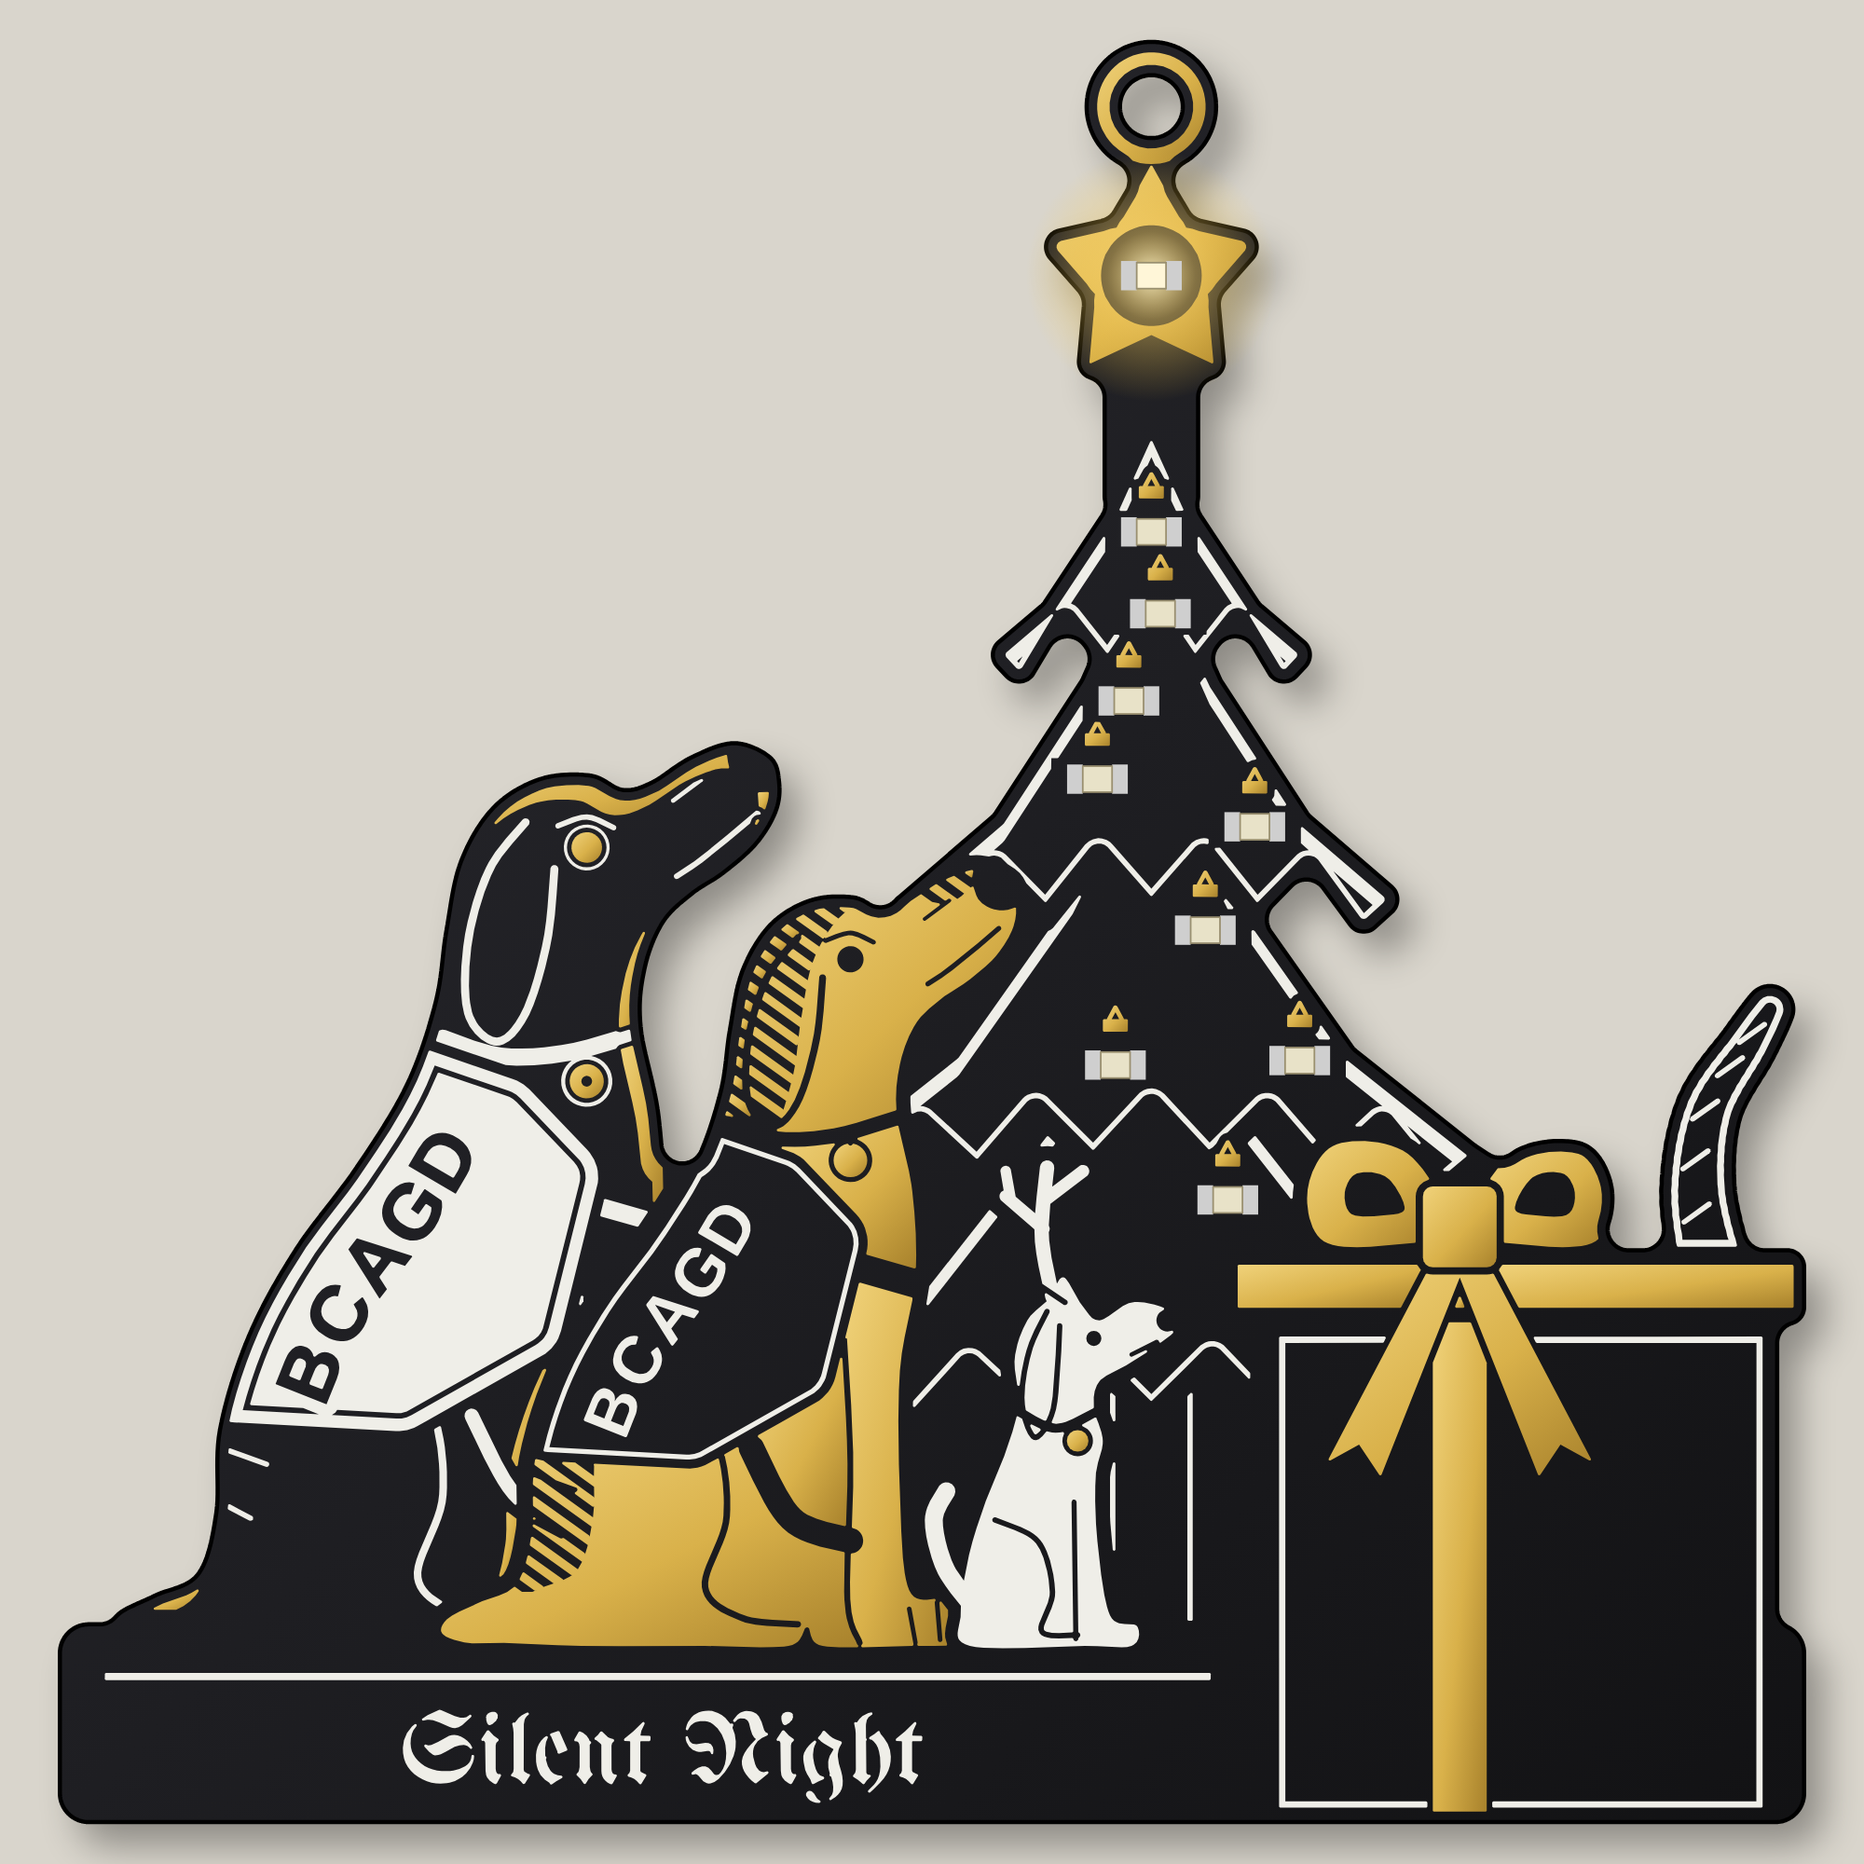
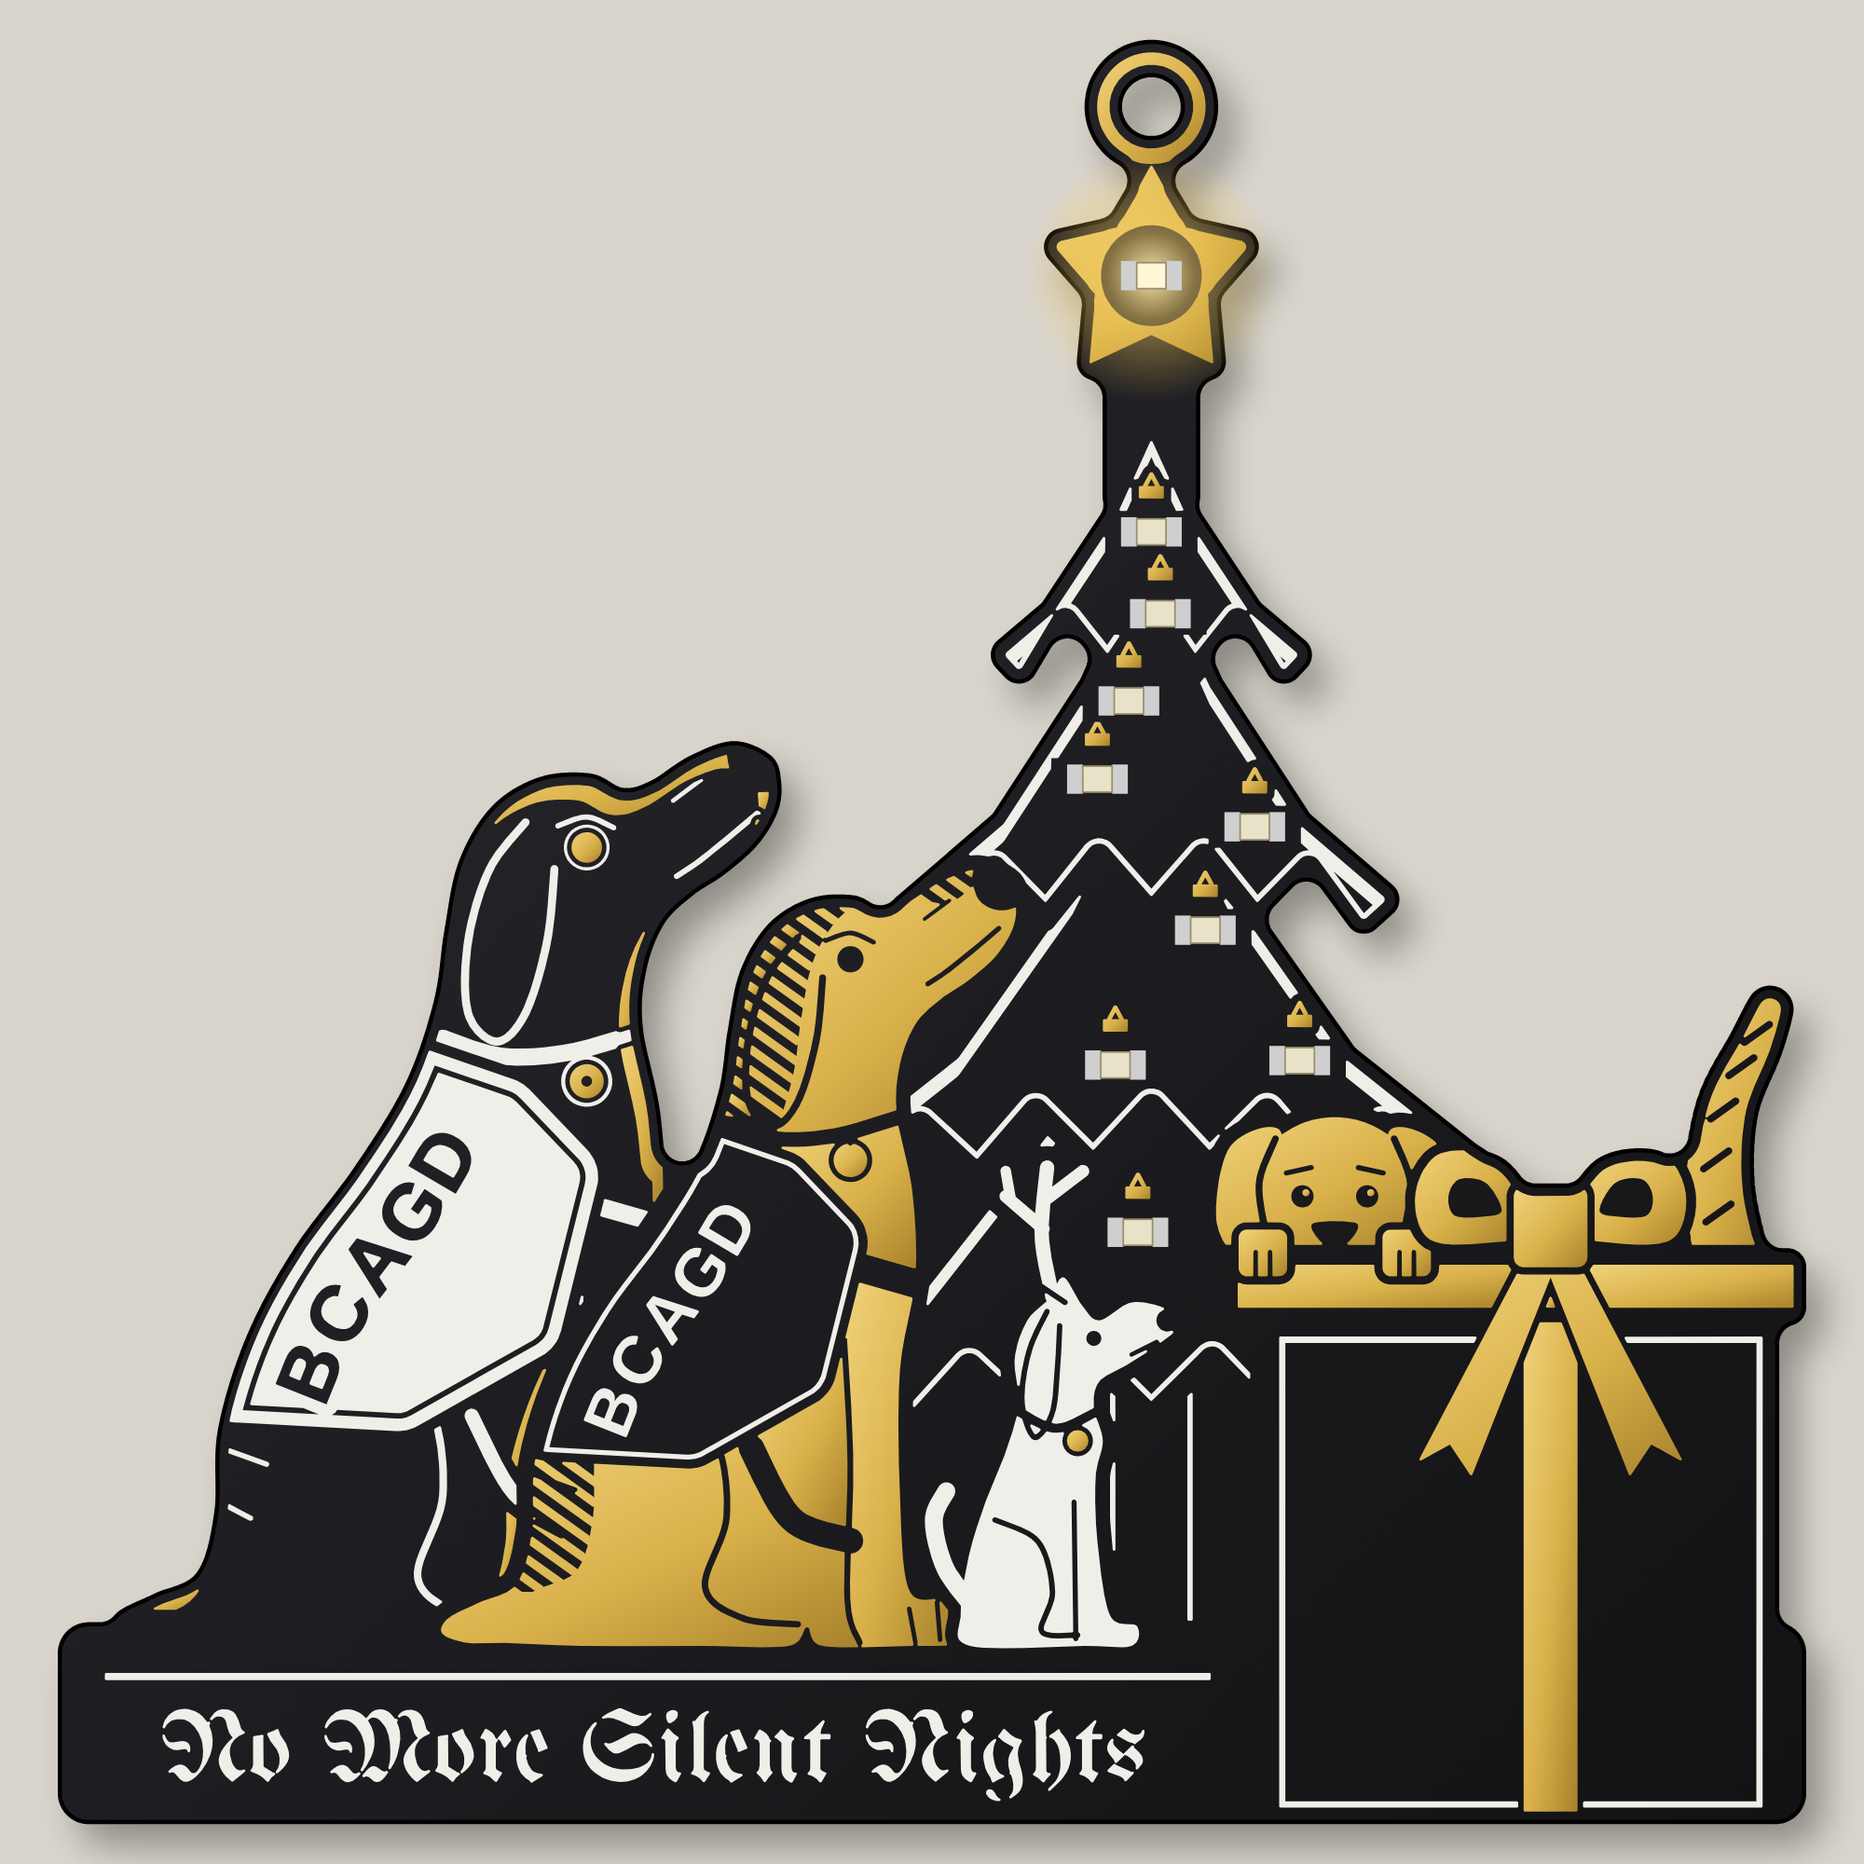
Add a puppy peeking over the present lid and the new caption
The caption now reads No More Silent Nights. The puppy's head, paws
and tail are gold. D1 moves to clear the puppy's head.

Claude-Session: https://claude.ai/code/session_01LWeVxTjGJUc5PEY3V1Ku58

Changed region(s): [[0.589, 0.527, 0.961, 0.992], [0.093, 0.899, 0.62, 0.961]]

diff --git a/pcb-art/labrador-ornament/source/build_ornament.py b/pcb-art/labrador-ornament/source/build_ornament.py
@@ -307,16 +307,24 @@ wdark = unary_union([
 # ---- wrapped present, bottom right: the CR2032 holder sits behind it on the back as the counterweight
 PX0, PX1, PY0 = 68.5, 97.0, 71.0      # 24.5 x 24.5 mm at final size, room for an SMD CR2032 holder
 BAT_C = ((PX0 + PX1) / 2, 86.0)
-BX, KY = BAT_C[0] - 3.4, PY0 - 4.6          # bow knot
-def _loop(sg, k=0.9):
+BX, KY = 84.4, PY0 - 4.6          # bow knot
+def _loop(sg, k=0.8):
     return smooth_poly([(BX + sg * k * x, KY + k * y) for x, y in [(0.6, 0.2), (3.2, -4.4), (7.6, -5.0), (9.4, -2.2), (8.4, 1.0), (4.0, 1.2)]])
 bow_loops = unary_union([_loop(1), _loop(-1)])
 bow_knot = box(BX - 1.5, KY - 1.6, BX + 1.5, KY + 1.8).buffer(0.6, join_style=1)
 bow = unary_union([bow_loops, bow_knot])
 # puppy tail poking out from under the lid, mid-wag
-_tp = catmull([(93.4, PY0 - 2.0), (92.6, PY0 - 6.5), (93.2, PY0 - 11.0), (95.4, PY0 - 14.6), (96.6, PY0 - 16.6)], closed=False, n=8)
-ptail = unary_union([Point(p).buffer(2.3 - 1.0 * i / (len(_tp) - 1)) for i, p in enumerate(_tp)])
-present = unary_union([box(PX0, PY0, PX1, 99.6), box(PX0 - 1.5, PY0 - 3.2, PX1 + 1.5, PY0 + 0.8), bow, ptail])
+_tp = catmull([(94.6, PY0 - 2.0), (93.8, PY0 - 6.5), (94.2, PY0 - 11.0), (95.8, PY0 - 14.6), (96.6, PY0 - 16.6)], closed=False, n=8)
+ptail = unary_union([Point(p).buffer(2.1 - 0.9 * i / (len(_tp) - 1)) for i, p in enumerate(_tp)])
+# puppy peeking over the lid on the left: top of the head, floppy ears, two paws hooked over the edge
+HX, LID_T = 72.4, PY0 - 3.2
+HY = LID_T - 2.4
+phead = unary_union([circle(HX, HY, 5.0),
+                     smooth_poly([(HX - 3.0, HY - 4.2), (HX - 5.8, HY - 3.4), (HX - 6.6, HY + 0.6), (HX - 5.4, HY + 2.6), (HX - 3.8, HY + 0.4)]),
+                     smooth_poly([(HX + 3.0, HY - 4.2), (HX + 5.8, HY - 3.4), (HX + 6.6, HY + 0.6), (HX + 5.4, HY + 2.6), (HX + 3.8, HY + 0.4)])])
+phead = phead.intersection(box(0, 0, 100, LID_T + 0.6))
+ppaws = unary_union([box(HX - 4.9, LID_T - 0.7, HX - 3.1, LID_T + 1.0).buffer(0.45, join_style=1), box(HX + 3.1, LID_T - 0.7, HX + 4.9, LID_T + 1.0).buffer(0.45, join_style=1)])
+present = unary_union([box(PX0, PY0, PX1, 99.6), box(PX0 - 1.5, PY0 - 3.2, PX1 + 1.5, PY0 + 0.8), bow, ptail, phead])
 
 raw = unary_union([bdog, ydog, wdog, tree, star_board, eye_tab, ground, present])
 # make it routable: inside corners get >= 1 mm radius, and slivers thinner than 1.6 mm are removed
@@ -348,7 +356,7 @@ def _valid(x, y, placed):
         return False
     return all(abs(x - px) > 5.4 / S or abs(y - py) > 3.6 / S for px, py in placed)
 LEDS = []
-for dx, y in [(5.0, 66.0), (8.5, 57.0), (-2.0, 57.5), (3.0, 50.0), (6.0, 44.0), (-3.0, 41.6), (-1.5, 37.0), (0.5, 32.4), (0.0, 27.6)]:
+for dx, y in [(2.0, 63.8), (8.5, 57.0), (-2.0, 57.5), (3.0, 50.0), (6.0, 44.0), (-3.0, 41.6), (-1.5, 37.0), (0.5, 32.4), (0.0, 27.6)]:
     best = None
     for i in range(-16, 17):
         for j in range(-12, 13):
@@ -434,31 +442,51 @@ shadows = unary_union([
 ])
 snow = box(4.0, gtop + 0.3, 96.0, gtop + 0.7)
 snow = box(4.0, gtop + 0.3, PX0 - 3.0, gtop + 0.7)
-text = text_geom("Silent Night", (1.5 + PX0) / 2, 97.4, 3.9)
+CAPTION = "No More Silent Nights"
+_cap = 3.9
+while True:
+    text = text_geom(CAPTION, (1.5 + PX0) / 2 - 0.5, 97.3, _cap)
+    if text.bounds[2] - text.bounds[0] <= PX0 - 1.5 - 7.0: break
+    _cap -= 0.1
+print("caption cap height (final mm)", round(_cap * S, 2))
 # white dog: solid white silk with black engraved details, gold bell on the collar
 wsilk = wdog.intersection(safe_silk).difference(wdark)
 wbell = circle(*wl([(8.6, 10.6)])[0], 0.6)
 # present: gold ribbon + bow, white outline
 pbox = box(PX0, PY0 + 0.8, PX1, 99.6).intersection(safe_cu)
 # bow: gold loops with dark centres so they read as loops, a knot, and two ribbon ends draped over the box
-_holes = unary_union([affinity.scale(_loop(sg), 0.42, 0.42, origin=(BX + sg * 4.9, KY - 1.7)) for sg in (1, -1)])
+_holes = unary_union([affinity.scale(_loop(sg), 0.42, 0.42, origin=(BX + sg * 4.35, KY - 1.5)) for sg in (1, -1)])
 _ends = unary_union([Polygon([(BX - 1.2, KY + 1.4), (BX + 0.6, KY + 1.4), (BX - 4.4, PY0 + 9.4), (BX - 5.6, PY0 + 7.6), (BX - 7.4, PY0 + 8.6)]),
                      Polygon([(BX + 1.2, KY + 1.4), (BX - 0.6, KY + 1.4), (BX + 4.4, PY0 + 9.4), (BX + 5.6, PY0 + 7.6), (BX + 7.4, PY0 + 8.6)])])
 _knotline = bow_knot.buffer(0.35).difference(bow_knot.buffer(-0.05))
 bow_gold = unary_union([bow_loops.difference(_holes), _ends]).difference(_knotline).union(bow_knot.buffer(-0.05))
 lid_band = box(PX0 - 1.5, PY0 - 2.4, PX1 + 1.5, PY0)
 vband = box(BX - 1.5, PY0 + 0.8, BX + 1.5, 99.6)
-ribbon = unary_union([vband.difference(_ends.buffer(0.35)), lid_band.difference(bow.buffer(0.35)).difference(_ends.buffer(0.35)), bow_gold,
+ribbon = unary_union([vband.difference(_ends.buffer(0.35)), lid_band.difference(bow.buffer(0.35)).difference(_ends.buffer(0.35)).difference(ppaws.buffer(0.45)), bow_gold,
                       ]).intersection(safe_cu)
 pin = box(PX0, PY0 + 0.8, PX1, 99.6).intersection(board).buffer(-0.8)
 psilk = pin.difference(pin.buffer(-0.35)).difference(ribbon.buffer(0.3))
 _pt = ptail.intersection(board).buffer(-0.55).difference(box(0, PY0 - 3.2 - 0.2, 100, 100))
 _ticks = unary_union([stroke([(_tp[i][0] - 0.9, _tp[i][1] + 0.5), (_tp[i][0] + 0.5, _tp[i][1] - 0.5)], 0.3, smooth=False) for i in range(6, len(_tp) - 5, 5)])
-psilk = unary_union([psilk, _pt.difference(_pt.buffer(-0.38)), _ticks.intersection(_pt)])
+
+# yellow Lab puppy: gold head, ears and paws with dark engraved features
+_pdark = unary_union([
+    circle(HX - 1.8, HY - 0.6, 0.62), circle(HX + 1.8, HY - 0.6, 0.62),                                # eyes
+    stroke([(HX - 2.7, HY - 1.9), (HX - 1.3, HY - 2.2)], 0.28, smooth=False), stroke([(HX + 2.7, HY - 1.9), (HX + 1.3, HY - 2.2)], 0.28, smooth=False),
+    smooth_poly([(HX - 1.2, HY + 0.9), (HX + 1.2, HY + 0.9), (HX + 0.8, HY + 1.9), (HX, HY + 2.2), (HX - 0.8, HY + 1.9)]),   # nose
+    stroke([(HX - 3.3, HY - 3.8), (HX - 4.2, HY - 1.4), (HX - 3.9, HY + 1.2)], 0.38),                     # ear edges
+    stroke([(HX + 3.3, HY - 3.8), (HX + 4.2, HY - 1.4), (HX + 3.9, HY + 1.2)], 0.38),
+])
+_toes = unary_union([stroke([(HX + sx + dx, LID_T + 0.1), (HX + sx + dx, LID_T + 1.5)], 0.25, smooth=False) for sx in (-4.0, 4.0) for dx in (-0.4, 0.4)])
+puppy_gold = unary_union([phead.difference(box(0, LID_T - 0.3, 100, 100)).difference(ppaws.buffer(0.4)).difference(_pdark),
+                          ppaws.difference(_toes),
+                          ptail.difference(box(0, LID_T - 0.3, 100, 100)).difference(_ticks.buffer(0.05))])
+peye_gold = unary_union([circle(HX - 1.6, HY - 0.8, 0.2), circle(HX + 2.0, HY - 0.8, 0.2)])
+
 bat_guide = ring(*BAT_C, 10.0, 0.1).union(LineString([(BAT_C[0] - 2, BAT_C[1]), (BAT_C[0] + 2, BAT_C[1])]).buffer(0.05)).union(LineString([(BAT_C[0], BAT_C[1] - 2), (BAT_C[0], BAT_C[1] + 2)]).buffer(0.05))
 
 # ================================================================ assemble
-gold_open = unary_union([ygold, bgold.difference(gapw), star_gold, eyelet, bauble_gold, ribbon, wbell]).intersection(safe_cu).difference(led_keep)
+gold_open = unary_union([ygold, bgold.difference(gapw), star_gold, eyelet, bauble_gold, ribbon, wbell, puppy_gold.intersection(safe_cu).difference(bow.buffer(0.55)), peye_gold]).intersection(safe_cu).difference(led_keep)
 gold_open = gold_open.buffer(-0.07).buffer(0.07)
 copper = gold_open.buffer(0.15).intersection(board.buffer(-0.4)).difference(led_keep.buffer(-0.1))
 # the yellow dog is one solid copper shape (details are mask over copper)
@@ -512,7 +540,7 @@ write("01_Edge.Cuts.svg", "Edge.Cuts: board outline = silhouette of two dogs + t
       "\n".join(f'<path d="{d_}" fill="none" stroke="#000" stroke-width="0.1"/>' for d_ in edge_lines))
 write("02_F.Cu.svg", "F.Cu: copper under the gold art (ENIG). Filled shapes = copper", fill_paths(copper))
 write("03_F.Mask.svg", "F.Mask: filled shapes = solder mask OPENINGS = exposed ENIG gold", fill_paths(gold_open))
-write("04_F.Silkscreen.svg", "F.Silkscreen: black dog line work, tree edges, snow line and Silent Night text (white legend, clear of the 10 LEDs)", fill_paths(sil_all))
+write("04_F.Silkscreen.svg", "F.Silkscreen: black dog line work, tree edges, snow line and caption (white legend, clear of the 10 LEDs)", fill_paths(sil_all))
 write("05_User.Drawings_LED_guide.svg", "User.Drawings: 10 LED positions (0805 outlines, F.Cu) and the CR2032 cell position (20 mm circle, holder goes on B.Cu)",
       fill_paths(bat_guide.union(led_outline).union(unary_union([LineString([(x - 1.6, y), (x + 1.6, y)]).buffer(0.05).union(LineString([(x, y - 1.6), (x, y + 1.6)]).buffer(0.05)) for x, y in LEDS]))))
 with open(os.path.join(OUT, "_leds.txt"), "w") as f:

diff --git a/pcb-art/labrador-ornament/README.md b/pcb-art/labrador-ornament/README.md
@@ -1,6 +1,6 @@
-# "Silent Night" dogs-and-tree ornament: KiCad layer SVGs
+# "No More Silent Nights" dogs-and-tree ornament: KiCad layer SVGs
 
-The board itself is cut to the silhouette of the scene: a black Labrador and a yellow Labrador look up at a Christmas tree with a star on top. A small white dog with an antler tied to its head sits in front of them, and a wrapped present with a big bow sits bottom right, with a puppy's tail poking out from under the lid. A ground strip ties everything into one board.
+The board itself is cut to the silhouette of the scene: a black Labrador and a yellow Labrador look up at a Christmas tree with a star on top. A small white dog with an antler tied to its head sits in front of them, and a wrapped present with a big bow sits bottom right, with a puppy peeking over the lid and its tail poking out the other side. A ground strip ties everything into one board.
 
 The board fits inside an **85 x 85 mm** square (83.3 mm wide, 85.0 mm tall). Every SVG uses the origin at the top-left corner of that square, drawn at 1 SVG unit = 1 mm. Text has already been turned into outlines, and shapes with holes are split into hole-free pieces.
 
@@ -10,7 +10,7 @@ The board fits inside an **85 x 85 mm** square (83.3 mm wide, 85.0 mm tall). Eve
 - **Black dog:** plain black mask with white silkscreen line work, a thin gold rim on the edges facing the star, and a gold eye and tag.
 - **Guide dog jackets:** both Labs wear a training jacket lettered "BCAGD" (BC & Alberta Guide Dogs), with the letters following the curve of the dog's back. The black dog's jacket is solid white silkscreen with the letters left black. The yellow dog's jacket is black mask with a white outline and white letters. The letters are about 2.6 mm tall on the black dog and 2.2 mm on the yellow dog. To change the word, set `JK_WORD` when running the build script.
 - **White dog:** solid white silkscreen with black details and a gold bell.
-- **Present:** gold ribbon and bow, white box outline. The puppy tail is black mask with a white outline and stripes.
+- **Present:** gold ribbon and bow, white box outline. The puppy's head, paws and tail are gold with dark engraved details.
 - **Tree:** black mask with white edge lines. The dogs and the present sit in front of it. The star, the hanging eyelet and the present's ribbon are gold.
 
 ## Balance
@@ -20,9 +20,9 @@ The 3 mm hanging hole is above the star at X = 52.97 mm. The CR2032 holder goes 
 |---|---|---|
 | Bare board (1.6 mm FR4, 33 cm²) | 9.9 g | 45.0 mm |
 | CR2032 cell + SMD holder | 4.5 g (3.0 g + 1.5 g) | 70.6 mm |
-| **Combined** | 14.4 g | **53.00 mm** |
+| **Combined** | 14.4 g | **53.04 mm** |
 
-With those numbers the centre of mass is 0.03 mm from the hang line, so it hangs straight. Without the battery it tilts about 9°.
+With those numbers the centre of mass is 0.06 mm from the hang line, so it hangs straight. Without the battery it tilts about 9°.
 
 These are estimates. Weigh your actual holder: every 1 g of difference in the battery assembly moves the balance point about 1.25 mm (about 1.2°). To trim, slide the holder: moving it 1 mm sideways moves the balance point about 0.3 mm. The ICs and passives weigh under 1 g in total. Placing them near X = 53 on the back keeps them out of the balance.
 
@@ -45,7 +45,7 @@ Use these settings for every file: Placement = At X 0, Y 0; Import scale = 1.0; 
 | 01_Edge.Cuts.svg | Edge.Cuts | The board silhouette plus the hanging hole. |
 | 02_F.Cu.svg | F.Cu | Copper under every gold area. It is unconnected, so keep pours and tracks off the front around it. |
 | 03_F.Mask.svg | F.Mask | Filled shapes are mask **openings**, which become the exposed ENIG gold. |
-| 04_F.Silkscreen.svg | F.Silkscreen | White dog, black dog line work, tree edges, present outline, ground line and "Silent Night". |
+| 04_F.Silkscreen.svg | F.Silkscreen | White dog, black dog line work, tree edges, present outline, ground line and "No More Silent Nights". |
 | 05_User.Drawings_LED_guide.svg | User.Drawings | The 10 LED positions and the 20 mm coin cell circle. |
 
 There is no F.Paste art layer, because paste on the art would put solder on the gold.
